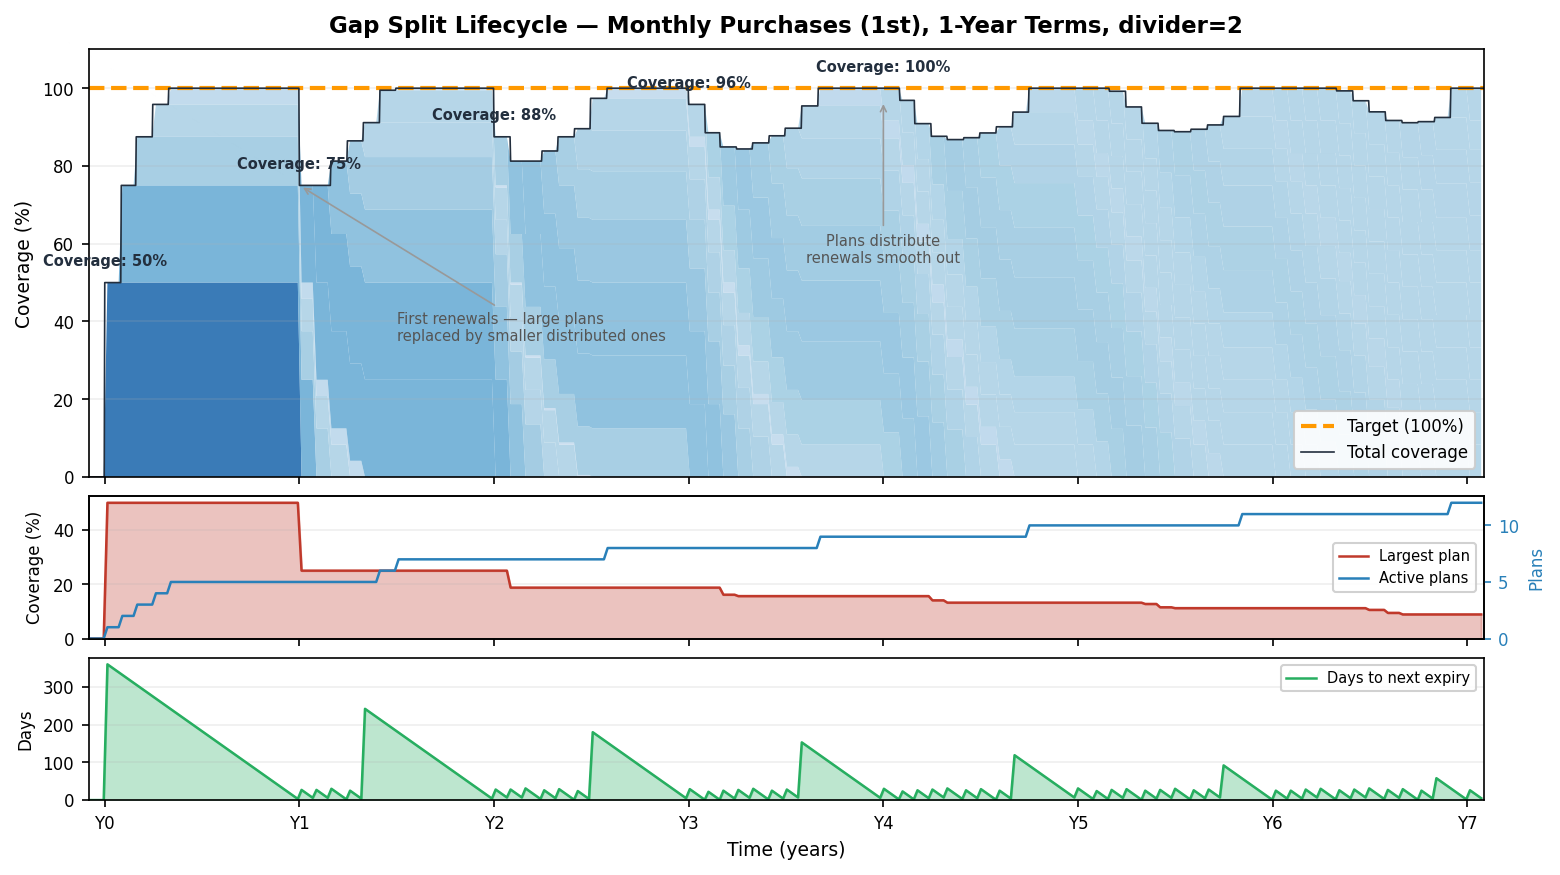
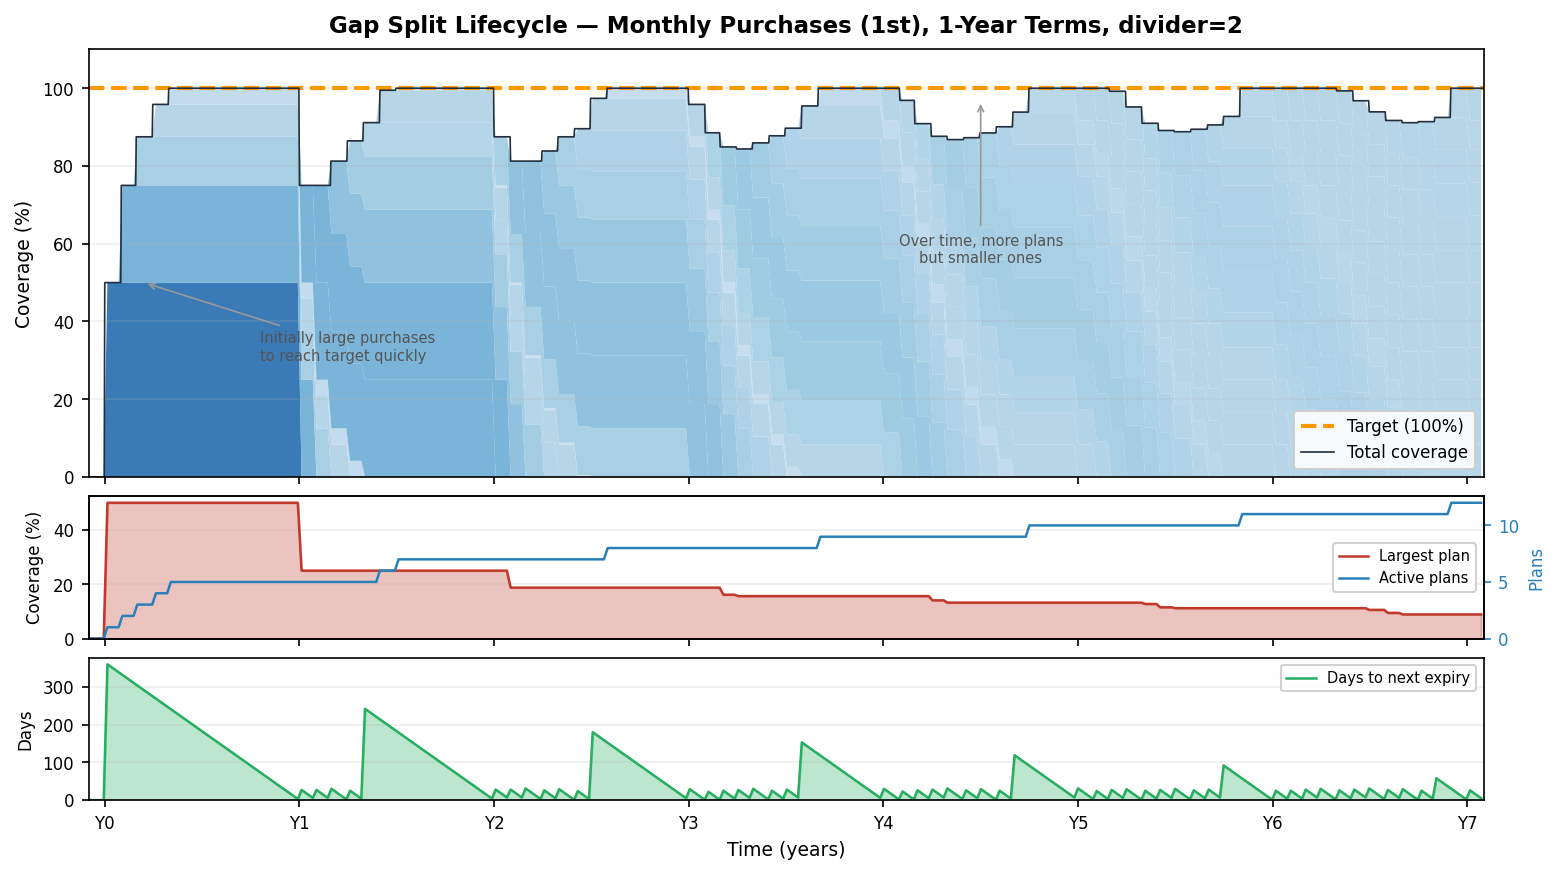
fix: simplify chart annotations to two clear messages

diff --git a/docs/generate_gap_split_chart.py b/docs/generate_gap_split_chart.py
@@ -133,43 +133,15 @@ def generate_chart(output_path: str = "docs/images/gap-split-lifecycle.png") -> 
     ax.axhline(y=100, color="#ff9900", linewidth=2, linestyle="--", label="Target (100%)")
     ax.plot(time_points, coverages, color="#232f3e", linewidth=0.8, label="Total coverage")
 
-    # Annotate coverage at the first purchase of each year (only during ramp-up)
-    for y in range(total_years + 1):
-        target_time = float(y)
-        closest_idx = min(
-            range(len(time_points)),
-            key=lambda i: abs(time_points[i] - target_time) if time_points[i] >= target_time else float("inf"),
-        )
-        cov = coverages[closest_idx]
-        if cov <= 0:
-            continue
-        # Stop annotating once we've reached 100%
-        if cov >= 99.9 and y > 0:
-            ax.annotate(
-                f"Coverage: {cov:.0f}%",
-                xy=(time_points[closest_idx], cov),
-                xytext=(0, 8), textcoords="offset points",
-                fontsize=7, color="#232f3e", fontweight="bold",
-                ha="center",
-            )
-            break
-        ax.annotate(
-            f"Coverage: {cov:.0f}%",
-            xy=(time_points[closest_idx], cov),
-            xytext=(0, 8), textcoords="offset points",
-            fontsize=7, color="#232f3e", fontweight="bold",
-            ha="center",
-        )
-
     ax.annotate(
-        "First renewals — large plans\nreplaced by smaller distributed ones",
-        xy=(1.0, 75), xytext=(1.5, 35),
+        "Initially large purchases\nto reach target quickly",
+        xy=(0.2, 50), xytext=(0.8, 30),
         fontsize=7, color="#555",
         arrowprops=dict(arrowstyle="->", color="#999", lw=0.8),
     )
     ax.annotate(
-        "Plans distribute\nrenewals smooth out",
-        xy=(4.0, 97), xytext=(4.0, 55),
+        "Over time, more plans\nbut smaller ones",
+        xy=(4.5, 97), xytext=(4.5, 55),
         fontsize=7, color="#555", ha="center",
         arrowprops=dict(arrowstyle="->", color="#999", lw=0.8),
     )
